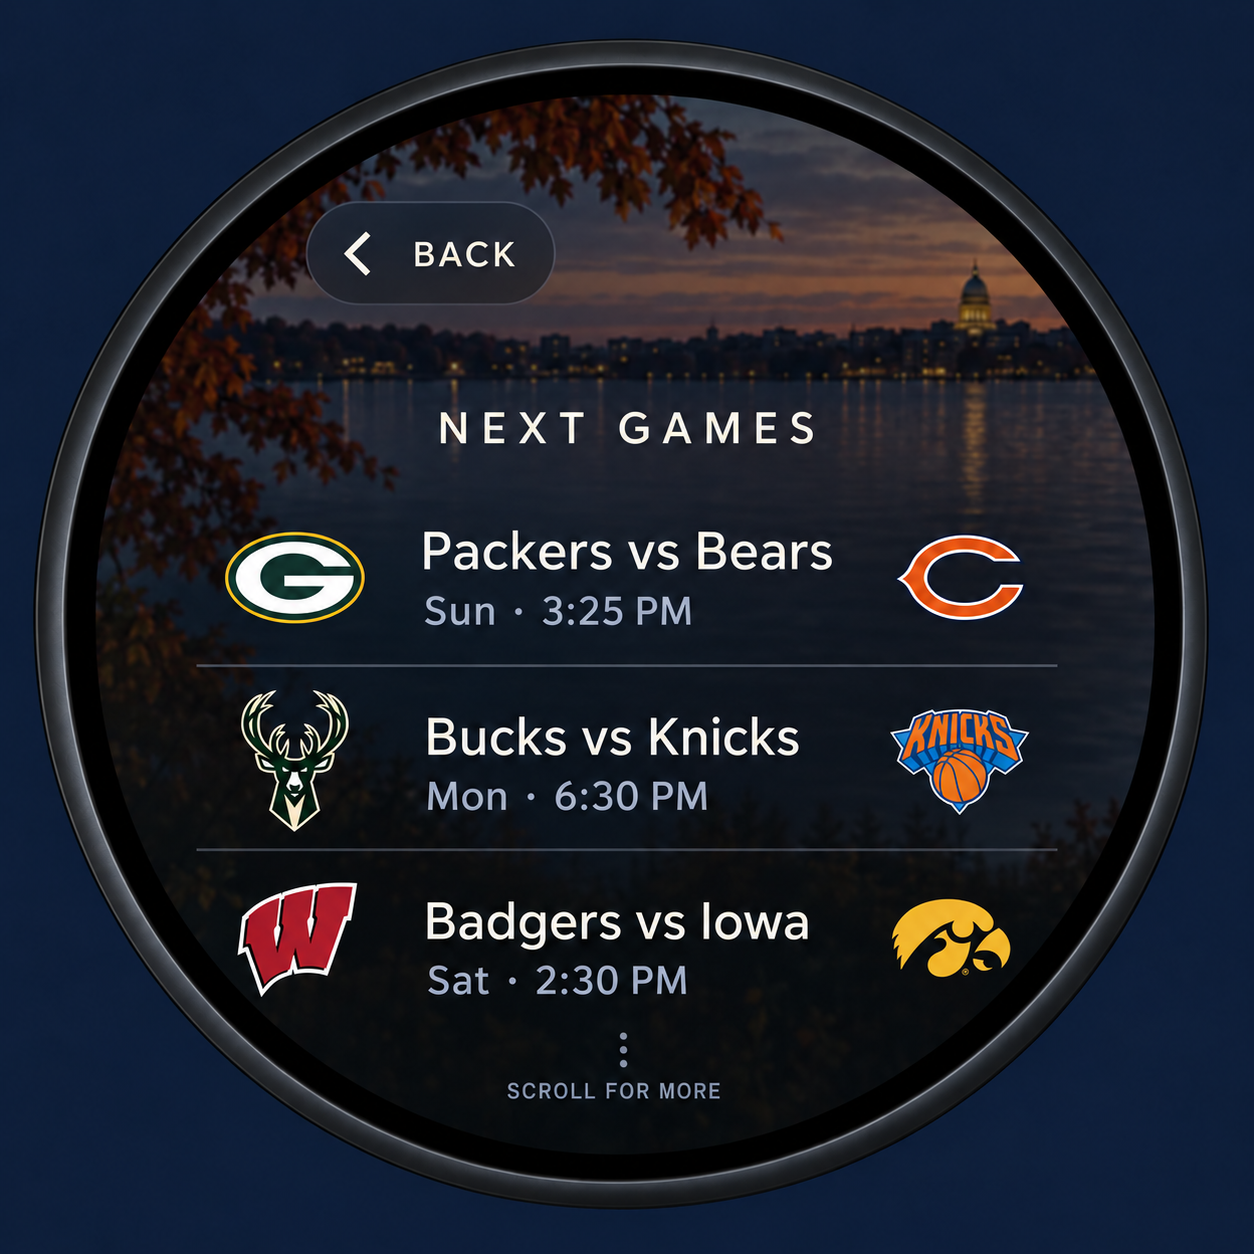
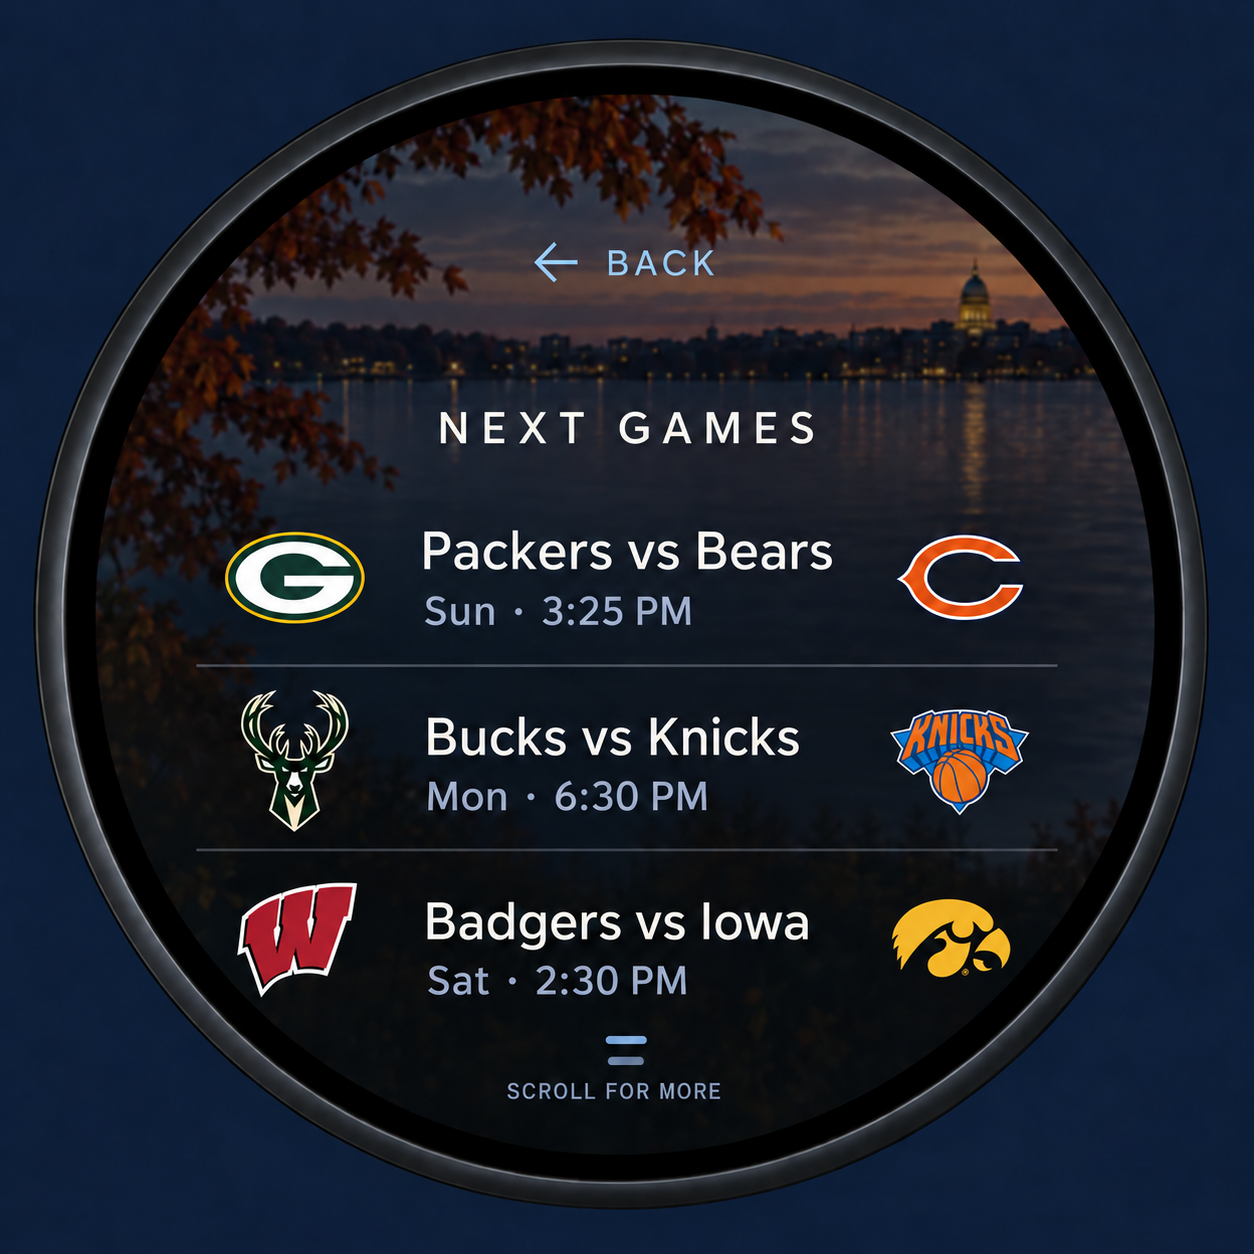
Match watch detail navigation controls

diff --git a/docs/design/watch-atmosphere/README.md b/docs/design/watch-atmosphere/README.md
@@ -33,6 +33,8 @@ its active screen takes over until the activity finishes. The mockup values, tea
 dates are illustrative. The Today's scenic background should respond to daypart,
 season, and weather; ambient particles stay behind the data and stop when motion is
 disabled or the screen is not interactive.
+The Stocks and Next Games detail views share the same light-blue Back control
+without a pill and the two-line "Scroll for more" cue.
 
 Design decisions:
 
